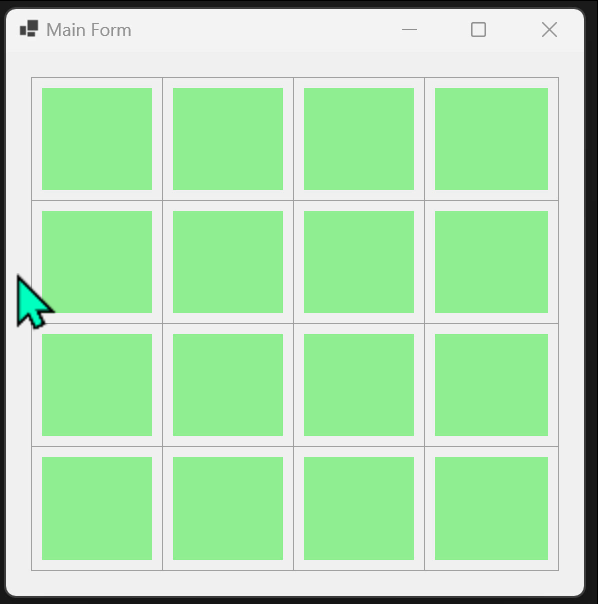
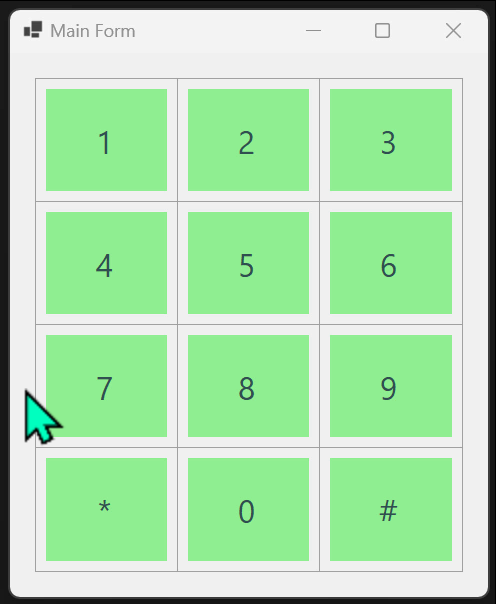
RevA

diff --git a/cursor-cross-on-cell-border/MainForm.Designer.cs b/cursor-cross-on-cell-border/MainForm.Designer.cs
@@ -37,11 +37,13 @@
             | System.Windows.Forms.AnchorStyles.Left) 
             | System.Windows.Forms.AnchorStyles.Right)));
             this.tableLayoutPanel.CellBorderStyle = System.Windows.Forms.TableLayoutPanelCellBorderStyle.Single;
-            this.tableLayoutPanel.ColumnCount = 4;
+            this.tableLayoutPanel.ColumnCount = 3;
             this.tableLayoutPanel.ColumnStyles.Add(new System.Windows.Forms.ColumnStyle(System.Windows.Forms.SizeType.Percent, 25F));
             this.tableLayoutPanel.ColumnStyles.Add(new System.Windows.Forms.ColumnStyle(System.Windows.Forms.SizeType.Percent, 25F));
             this.tableLayoutPanel.ColumnStyles.Add(new System.Windows.Forms.ColumnStyle(System.Windows.Forms.SizeType.Percent, 25F));
             this.tableLayoutPanel.ColumnStyles.Add(new System.Windows.Forms.ColumnStyle(System.Windows.Forms.SizeType.Percent, 25F));
+            this.tableLayoutPanel.Font = new System.Drawing.Font("Segoe UI", 16F, System.Drawing.FontStyle.Regular, System.Drawing.GraphicsUnit.Point);
+            this.tableLayoutPanel.ForeColor = System.Drawing.Color.DarkSlateGray;
             this.tableLayoutPanel.Location = new System.Drawing.Point(25, 25);
             this.tableLayoutPanel.Name = "tableLayoutPanel";
             this.tableLayoutPanel.RowCount = 4;
@@ -49,14 +51,14 @@
             this.tableLayoutPanel.RowStyles.Add(new System.Windows.Forms.RowStyle(System.Windows.Forms.SizeType.Percent, 25F));
             this.tableLayoutPanel.RowStyles.Add(new System.Windows.Forms.RowStyle(System.Windows.Forms.SizeType.Percent, 25F));
             this.tableLayoutPanel.RowStyles.Add(new System.Windows.Forms.RowStyle(System.Windows.Forms.SizeType.Percent, 25F));
-            this.tableLayoutPanel.Size = new System.Drawing.Size(528, 494);
+            this.tableLayoutPanel.Size = new System.Drawing.Size(428, 494);
             this.tableLayoutPanel.TabIndex = 0;
             // 
             // MainForm
             // 
             this.AutoScaleDimensions = new System.Drawing.SizeF(10F, 25F);
             this.AutoScaleMode = System.Windows.Forms.AutoScaleMode.Font;
-            this.ClientSize = new System.Drawing.Size(578, 544);
+            this.ClientSize = new System.Drawing.Size(478, 544);
             this.Controls.Add(this.tableLayoutPanel);
             this.Name = "MainForm";
             this.Padding = new System.Windows.Forms.Padding(25);

diff --git a/cursor-cross-on-cell-border/MainForm.cs b/cursor-cross-on-cell-border/MainForm.cs
@@ -12,35 +12,29 @@ namespace cursor_cross_on_cell_border
             // TableLayoutPanel has CROSS
             tableLayoutPanel.Cursor = Cursors.Cross;
 
+            int key = 0; string text;
             for (int column = 0; column < tableLayoutPanel.ColumnCount; column++)
                 for (int row = 0; row < tableLayoutPanel.RowCount; row++)
                 {
-                    tableLayoutPanel.Controls.Add(new Panel
+                    switch (++key)
+                    {
+                        case 10: text = "*"; break;
+                        case 11: text = "0"; break;
+                        case 12: text = "#"; break;
+                        default: text = $"{key}";  break;
+                    }
+                    tableLayoutPanel.Controls.Add(new Label
                     {
                         BackColor = Color.LightGreen,
                         Anchor = (AnchorStyles)0xF,
-                        Margin = new Padding(10),
+                        Margin = new Padding(10),  
+                        Text = text,
+                        TextAlign = ContentAlignment.MiddleCenter,
 
                         // Controls in the table have HAND
                         Cursor = Cursors.Hand,
                     });
                 }
-        }
-
-        int _wdtCount = 0;
-        private void onResized(object? sender, EventArgs e)
-        {
-            var capture = ++_wdtCount;
-            Task
-                .Delay(2500)
-                .GetAwaiter()
-                .OnCompleted(() =>
-                {
-                    if (capture.Equals(_wdtCount))
-                    {
-
-                    }
-                });
         }
     }
 }
